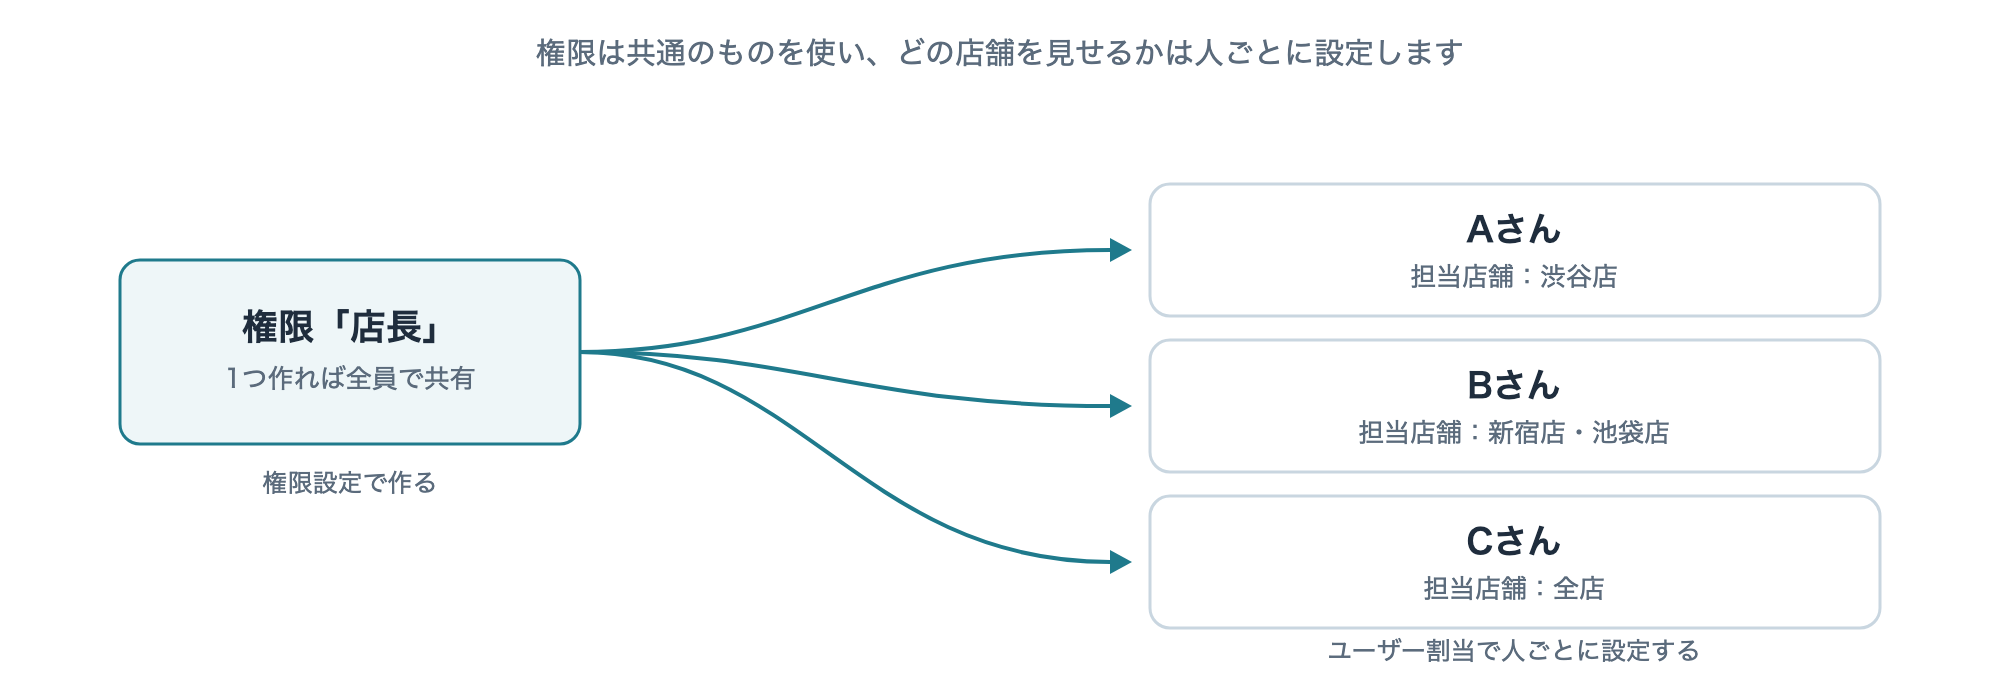
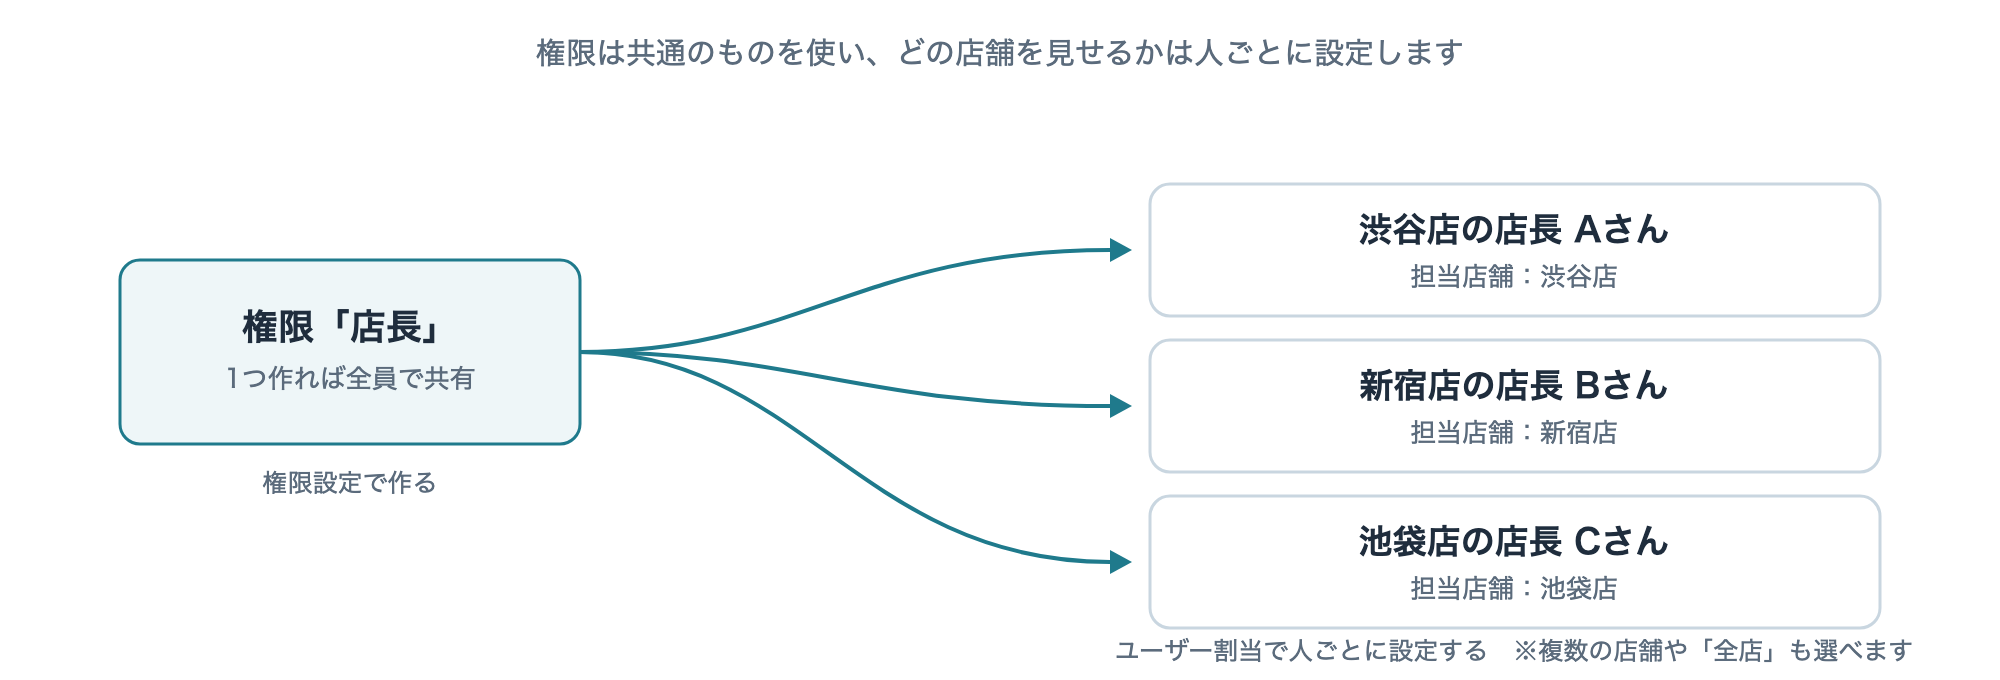
図2の例を本文と揃える
図2は権限「店長」からAさん＝渋谷店、Bさん＝新宿店・池袋店、Cさん＝全店と
していたが、本文「担当店舗を設定する」は「同じ店長の権限でも、渋谷店の
店長には渋谷店を、新宿店の店長には新宿店を設定します」と書いており、
店長が全店を担当する例は噛み合っていなかった。

- 3名とも1店舗ずつ（渋谷／新宿／池袋の各店長）に変更し、本文と一致させた
- 複数店舗と「全店」も選べることは、図の下部に注記として残した
- 図の差し替え案内に「この案内文ごと差し替えてください」を追記。
  画像を挿入したあとも案内文が残ってしまうため

diff --git a/20260804_権限設定_ヘルプページ.html b/20260804_権限設定_ヘルプページ.html
@@ -196,7 +196,7 @@ code{background:var(--soft);padding:1px 6px;border-radius:4px;font-size:13px}
 </tbody>
 </table>
 <p><strong>権限と担当店舗は別々に設定します。</strong> 同じ権限でも、担当する店舗は人によって異なるためです。権限は共通のものを使い、担当店舗はメンバーごとに紐付けます。</p>
[2 lines of base64/hex data omitted]
 
 <p>「役職」は従業員情報に登録された肩書きで、<strong>権限とは別のもの</strong>です。役職を変更しても権限は変わりません。</p>
 <h2 id="_5">ご利用の流れ</h2>

diff --git a/help/figures.py b/help/figures.py
@@ -47,11 +47,11 @@ def fig2():
     s+=txt(W/2,32,"権限は共通のものを使い、どの店舗を見せるかは人ごとに設定します",15,SUB)
     s+=rect(60,130,230,92,"#eef6f8",ACC)+txt(175,170,"権限「店長」",18,INK,"600")+txt(175,194,"1つ作れば全員で共有",13,SUB)
     s+=txt(175,246,"権限設定で作る",12.5,SUB)
-    for nm,st,yy in [("Aさん","担当店舗：渋谷店",92),("Bさん","担当店舗：新宿店・池袋店",170),("Cさん","担当店舗：全店",248)]:
+    for nm,st,yy in [("渋谷店の店長 Aさん","担当店舗：渋谷店",92),("新宿店の店長 Bさん","担当店舗：新宿店",170),("池袋店の店長 Cさん","担当店舗：池袋店",248)]:
         s+=f'<path d="M290 176 C 400 176, 430 {yy+33}, 555 {yy+33}" fill="none" stroke="{ACC}" stroke-width="2"/>'
         s+=f'<path d="M566 {yy+33} L555 {yy+27} L555 {yy+39} Z" fill="{ACC}"/>'
         s+=rect(575,yy,365,66,"#fff",LINE)+txt(757,yy+29,nm,17,INK,"600")+txt(757,yy+51,st,13,SUB)
-    s+=txt(757,330,"ユーザー割当で人ごとに設定する",12.5,SUB)
+    s+=txt(757,330,"ユーザー割当で人ごとに設定する　※複数の店舗や「全店」も選べます",12.5,SUB)
     return "02_権限と担当店舗",W,H,s+"</svg>"
 
 def fig3():

diff --git a/help/draft-notion.md b/help/draft-notion.md
@@ -80,7 +80,7 @@
 ---
 
 🖼 **【図2：権限と担当店舗の関係】**
-図/02_権限と担当店舗.png（または .svg）をアップロードして差し替えてください。**作成済みです。**
+図/02_権限と担当店舗.png（または .svg）をアップロードし、**この案内文ごと差し替えてください。**図は作成済みです。
 
 ---
 
@@ -104,7 +104,7 @@
 ---
 
 🖼 **【図1：ご利用の流れ】**
-図/01_ご利用の流れ.png（または .svg）をアップロードして差し替えてください。**作成済みです。**
+図/01_ご利用の流れ.png（または .svg）をアップロードし、**この案内文ごと差し替えてください。**図は作成済みです。
 
 ---
 
@@ -128,7 +128,7 @@
 ---
 
 📷 **【画像①：権限テンプレートの画面】**
-この画面のスクリーンショットを撮影して差し替えてください。**未取得です。**
+この画面のスクリーンショットを撮影し、**この案内文ごと差し替えてください。**未取得です。
 
 ---
 
@@ -153,7 +153,7 @@
 ---
 
 📷 **【画像②：権限設定の一覧画面】**
-この画面のスクリーンショットを撮影して差し替えてください。**未取得です。**
+この画面のスクリーンショットを撮影し、**この案内文ごと差し替えてください。**未取得です。
 
 ---
 
@@ -177,7 +177,7 @@
 ---
 
 📷 **【画像③：雛形（ベース）の選択画面】**
-この画面のスクリーンショットを撮影して差し替えてください。**未取得です。**
+この画面のスクリーンショットを撮影し、**この案内文ごと差し替えてください。**未取得です。
 
 ---
 
@@ -194,7 +194,7 @@
 ---
 
 🖼 **【図3：会社と店舗の区分】**
-図/03_会社と店舗の区分.png（または .svg）をアップロードして差し替えてください。**作成済みです。**
+図/03_会社と店舗の区分.png（または .svg）をアップロードし、**この案内文ごと差し替えてください。**図は作成済みです。
 
 ---
 
@@ -224,7 +224,7 @@
 ---
 
 📷 **【画像④：画面ごとの設定（操作／閲覧／なし）】**
-この画面のスクリーンショットを撮影して差し替えてください。**未取得です。**
+この画面のスクリーンショットを撮影し、**この案内文ごと差し替えてください。**未取得です。
 
 ---
 
@@ -254,7 +254,7 @@
 ---
 
 📷 **【画像⑥：まとめて割り当てる画面】**
-この画面のスクリーンショットを撮影して差し替えてください。**未取得です。**
+この画面のスクリーンショットを撮影し、**この案内文ごと差し替えてください。**未取得です。
 
 ---
 
@@ -276,7 +276,7 @@
 ---
 
 📷 **【画像⑦：メンバーごとの割当編集画面】**
-この画面のスクリーンショットを撮影して差し替えてください。**未取得です。**
+この画面のスクリーンショットを撮影し、**この案内文ごと差し替えてください。**未取得です。
 
 ---
 
@@ -303,7 +303,7 @@
 ---
 
 📷 **【画像⑧：担当店舗の選択画面】**
-この画面のスクリーンショットを撮影して差し替えてください。**未取得です。**
+この画面のスクリーンショットを撮影し、**この案内文ごと差し替えてください。**未取得です。
 
 ---
 
@@ -334,7 +334,7 @@
 ---
 
 📷 **【画像⑨：指標一覧の画面】**
-この画面のスクリーンショットを撮影して差し替えてください。**未取得です。**
+この画面のスクリーンショットを撮影し、**この案内文ごと差し替えてください。**未取得です。
 
 ---
 
@@ -362,7 +362,7 @@
 ---
 
 📷 **【画像⑤：マス目を選択して該当箇所へ移動したところ】**
-この画面のスクリーンショットを撮影して差し替えてください。**未取得です。**
+この画面のスクリーンショットを撮影し、**この案内文ごと差し替えてください。**未取得です。
 
 ---
 
@@ -414,7 +414,7 @@
 ---
 
 📷 **【画像⑩：役割サマリの画面】**
-この画面のスクリーンショットを撮影して差し替えてください。**未取得です。**
+この画面のスクリーンショットを撮影し、**この案内文ごと差し替えてください。**未取得です。
 
 ---
 
